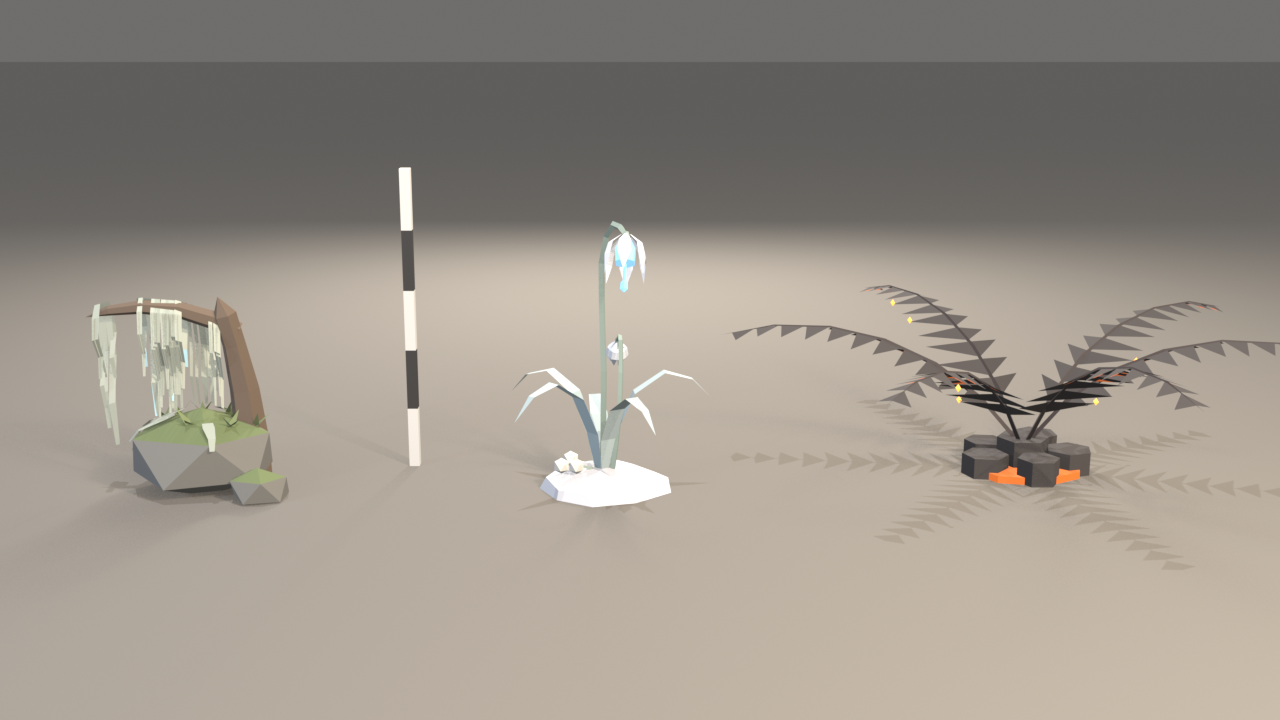
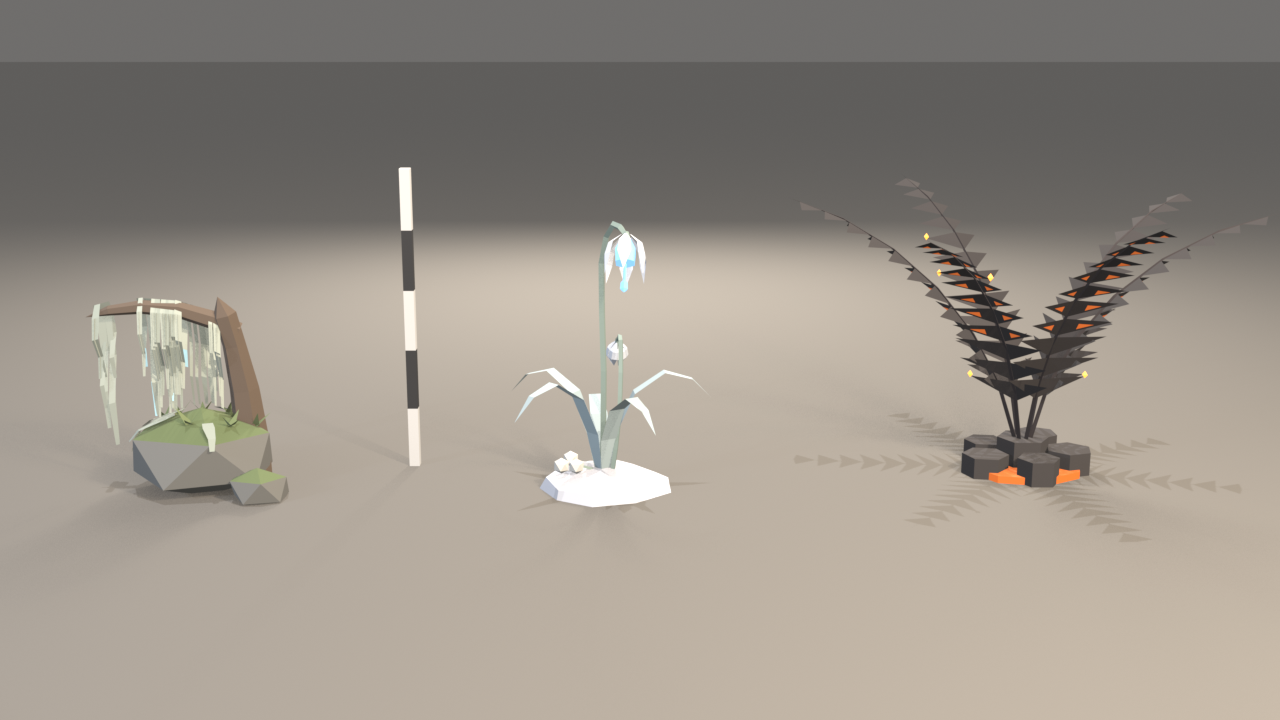
tools: fern v2b (taller arch)

Changed region(s): [[0.5938, 0.3056, 1.0, 0.6111], [0.5625, 0.4583, 0.5938, 0.4889]]

diff --git a/tools/blender/make_plants.py b/tools/blender/make_plants.py
@@ -63,11 +63,11 @@ T2 = dict(  # Baldr's Tear, ~0.45 m
     berries=3, berry_r=0.013,
 )
 T3 = dict(  # Hel's Ember Fern, ~0.5 m
-    columns=6, fronds=6, frond_len=(0.50, 0.58), frond_angle=(64, -18),  # start/end elevation (deg); no upright frond
+    columns=6, fronds=6, frond_len=(0.54, 0.60), frond_angle=(86, 15),  # start/end elevation (deg); no upright frond
     leaflets=11, leaflet_len=0.11,      # leaflets per side; length of the longest one
     leaflet_fwd=0.45, leaflet_droop=0.3,
     spore_scale=0.32, spore_drop=0.002, spore_from=3, embers=6,   # spores only from leaflet spore_from on
-    ember_anchor_h=0.30,
+    ember_anchor_h=0.40,
 )
 # =============================================================================
 
@@ -400,7 +400,8 @@ def tris(ob):
     me = ob.data; me.calc_loop_triangles(); return len(me.loop_triangles)
 
 for k, (ob, kids) in plants.items():
-    print(f"TRIS plant_{k}: {tris(ob)}  height {max((ob.matrix_world @ v.co).z for v in ob.data.vertices):.3f} m")
+    xs = [v.co.x for v in ob.data.vertices]; ys = [v.co.y for v in ob.data.vertices]
+    print(f"TRIS plant_{k}: {tris(ob)}  height {max(v.co.z for v in ob.data.vertices):.3f} m  spread {max(xs)-min(xs):.2f} x {max(ys)-min(ys):.2f} m")
     for a in kids: a.name = a.name.rsplit("_", 1)[0]  # PickAnchor / EmberAnchor exactly
     bpy.ops.object.select_all(action='DESELECT')
     for o in [ob] + kids: o.select_set(True)

diff --git a/tools/blender/README.md b/tools/blender/README.md
@@ -22,14 +22,14 @@ Run from the repo root: `blender -b --python tools/blender/make_plants.py` (abou
 (gitignored): `plant_t1/t2/t3.fbx` (Y-up, 1 unit = 1 m, pivot at ground level), `preview-plants.png`, `plants.blend`.
 The preview is copied to `tools/blender/preview-plants-v2.png` (1280x720, Eevee, 0.5 m ruler in 0.1 m bands).
 Each FBX is one mesh with named materials plus an empty `PickAnchor` (where a hand grabs it); tier 3 also has
-`EmberAnchor` (0.30 m above the centre) for a spark particle system. Stones and the snow mound sink about 1 cm below 0.
+`EmberAnchor` (0.40 m above the centre) for a spark particle system. Stones and the snow mound sink about 1 cm below 0.
 Leaf cards and strands are single-sided quads: they need a double-sided (cull off) shader in Unity.
 
 | Tier | Name | Biome | Height | Look | Tris |
 |---|---|---|---|---|---|
 | 1 | Huldra's Hair (Huldrelokk) | Black Forest | 0.31 m | dense lichen beard: 38 flat ribbon clumps (half of them crossed pairs) wrapping over a stout dead branch, strips spilling over a mossy stone, moss tufts, 4 faint tip glints | 654 |
 | 2 | Baldr's Tear (Baldrsgrat) | Mountains | 0.44 m | nodding white snowdrop-like bell with a glowing blue cup and teardrop, closed bud, frosted leaves, 3 white mistletoe berries, snow mound | 484 |
-| 3 | Hel's Ember Fern (Helfern) | Ashlands | 0.25 m (about 1 m across) | 6 charcoal fronds arching outwards (none upright), sawtooth leaflets, small ember spore patches on the outer leaflet undersides, ember dots, hex basalt columns over glowing cracks | 592 |
+| 3 | Hel's Ember Fern (Helfern) | Ashlands | 0.46 m (0.71 m across) | 6 charcoal fronds rising steeply (76-86 deg) and arching outwards to 15 deg at the tips, none upright, sawtooth leaflets, small ember spore patches on the outer leaflet undersides, ember dots, hex basalt columns over glowing cracks | 592 |
 
 Knobs at the top of `make_plants.py`:
 1. `MATS`: colour, roughness, metallic, emission per material (`huldra_*`, `baldr_*`, `helfern_*`).
